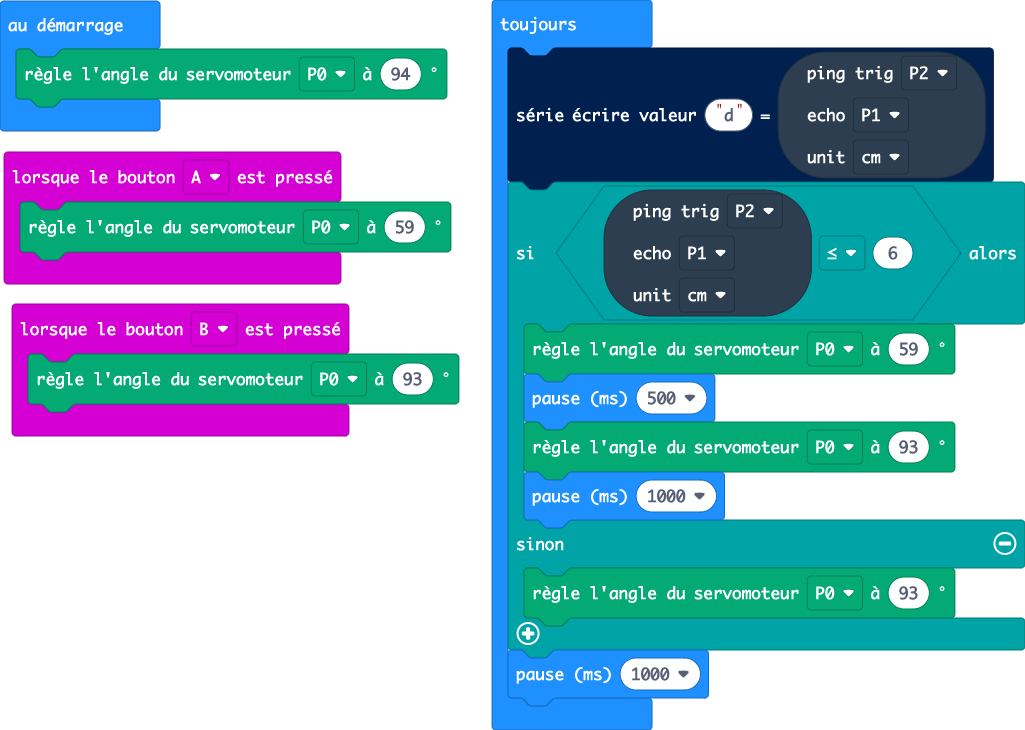
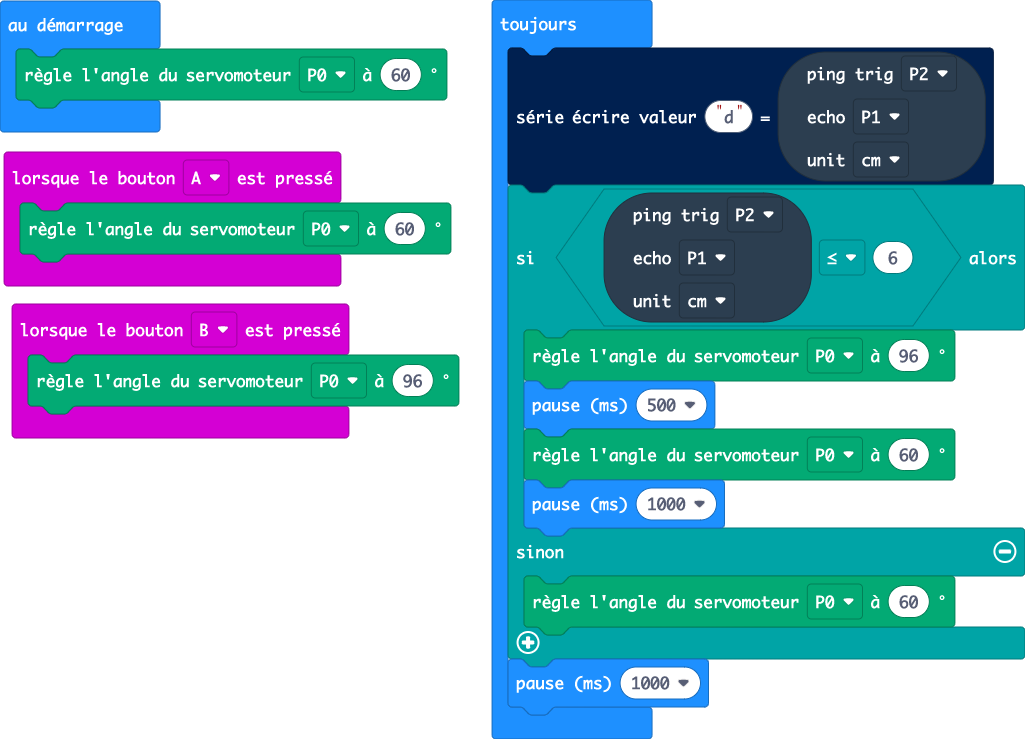
Mise à jour main.blocks, main.ts

diff --git a/main.ts b/main.ts
@@ -1,10 +1,10 @@
 input.onButtonPressed(Button.A, function () {
-    servos.P0.setAngle(59)
+    servos.P0.setAngle(60)
 })
 input.onButtonPressed(Button.B, function () {
-    servos.P0.setAngle(93)
+    servos.P0.setAngle(96)
 })
-servos.P0.setAngle(94)
+servos.P0.setAngle(60)
 basic.forever(function () {
     serial.writeValue("d", sonar.ping(
     DigitalPin.P2,
@@ -16,12 +16,12 @@ basic.forever(function () {
     DigitalPin.P1,
     PingUnit.Centimeters
     ) <= 6) {
-        servos.P0.setAngle(59)
+        servos.P0.setAngle(96)
         basic.pause(500)
-        servos.P0.setAngle(93)
+        servos.P0.setAngle(60)
         basic.pause(1000)
     } else {
-        servos.P0.setAngle(93)
+        servos.P0.setAngle(60)
     }
     basic.pause(1000)
 })
